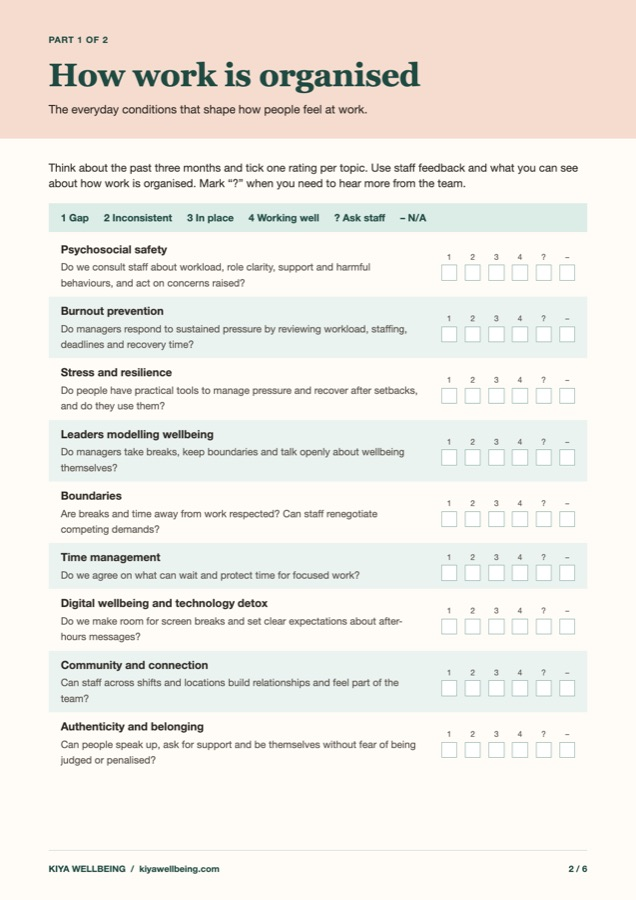
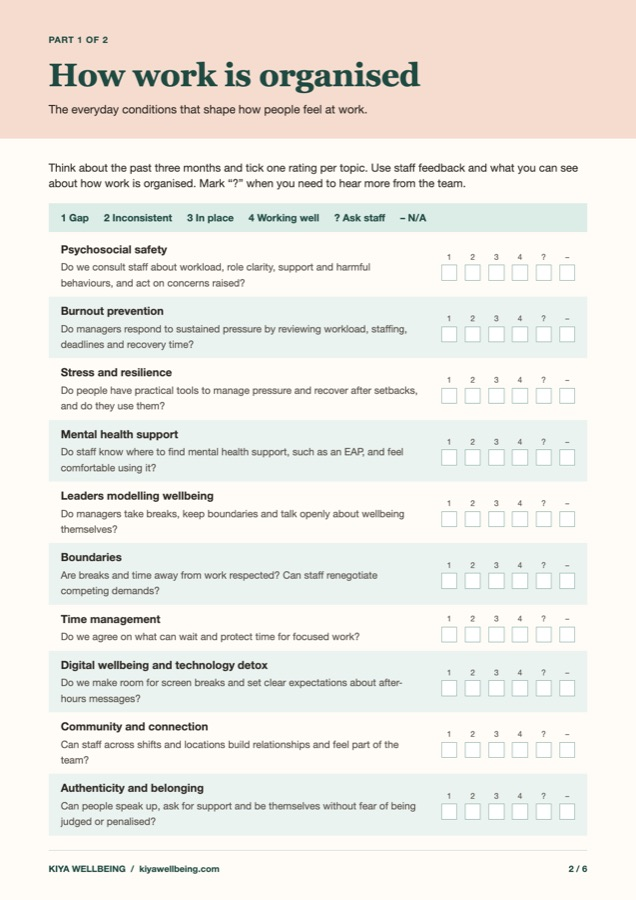
Wellbeing Check: 20 areas, with Mental health support added
Corporate page now says 20 areas, and the three checklist preview
images show the updated pages.

Changed region(s): [[0.0896, 0.4667, 0.6572, 0.9333], [0.6871, 0.6222, 0.8962, 0.7156], [0.6871, 0.8711, 0.8962, 0.9022]]

diff --git a/corporate.html b/corporate.html
@@ -520,7 +520,7 @@ html,body{overflow-x:clip;}
         <h2>How is your team <em>really</em> doing?</h2>
         <p class="wc-lead">The 15-Minute Team Wellbeing Check helps you see where your people are thriving, where the gaps are, and what support they would actually use. Fill it in, send it back, and Kim will reply with a free one-page Wellbeing Snapshot.</p>
         <ul class="wc-points">
-          <li><span><b>19 areas</b> from psychosocial safety to sleep and breathwork</span></li>
+          <li><span><b>20 areas</b> from psychosocial safety to sleep and breathwork</span></li>
           <li><span><b>About 15 minutes</b>, as a fillable PDF</span></li>
           <li><span><b>Any team:</b> office, hybrid, production or shift workers</span></li>
           <li><span><b>Free Snapshot:</b> your top three priorities and a first step</span></li>
